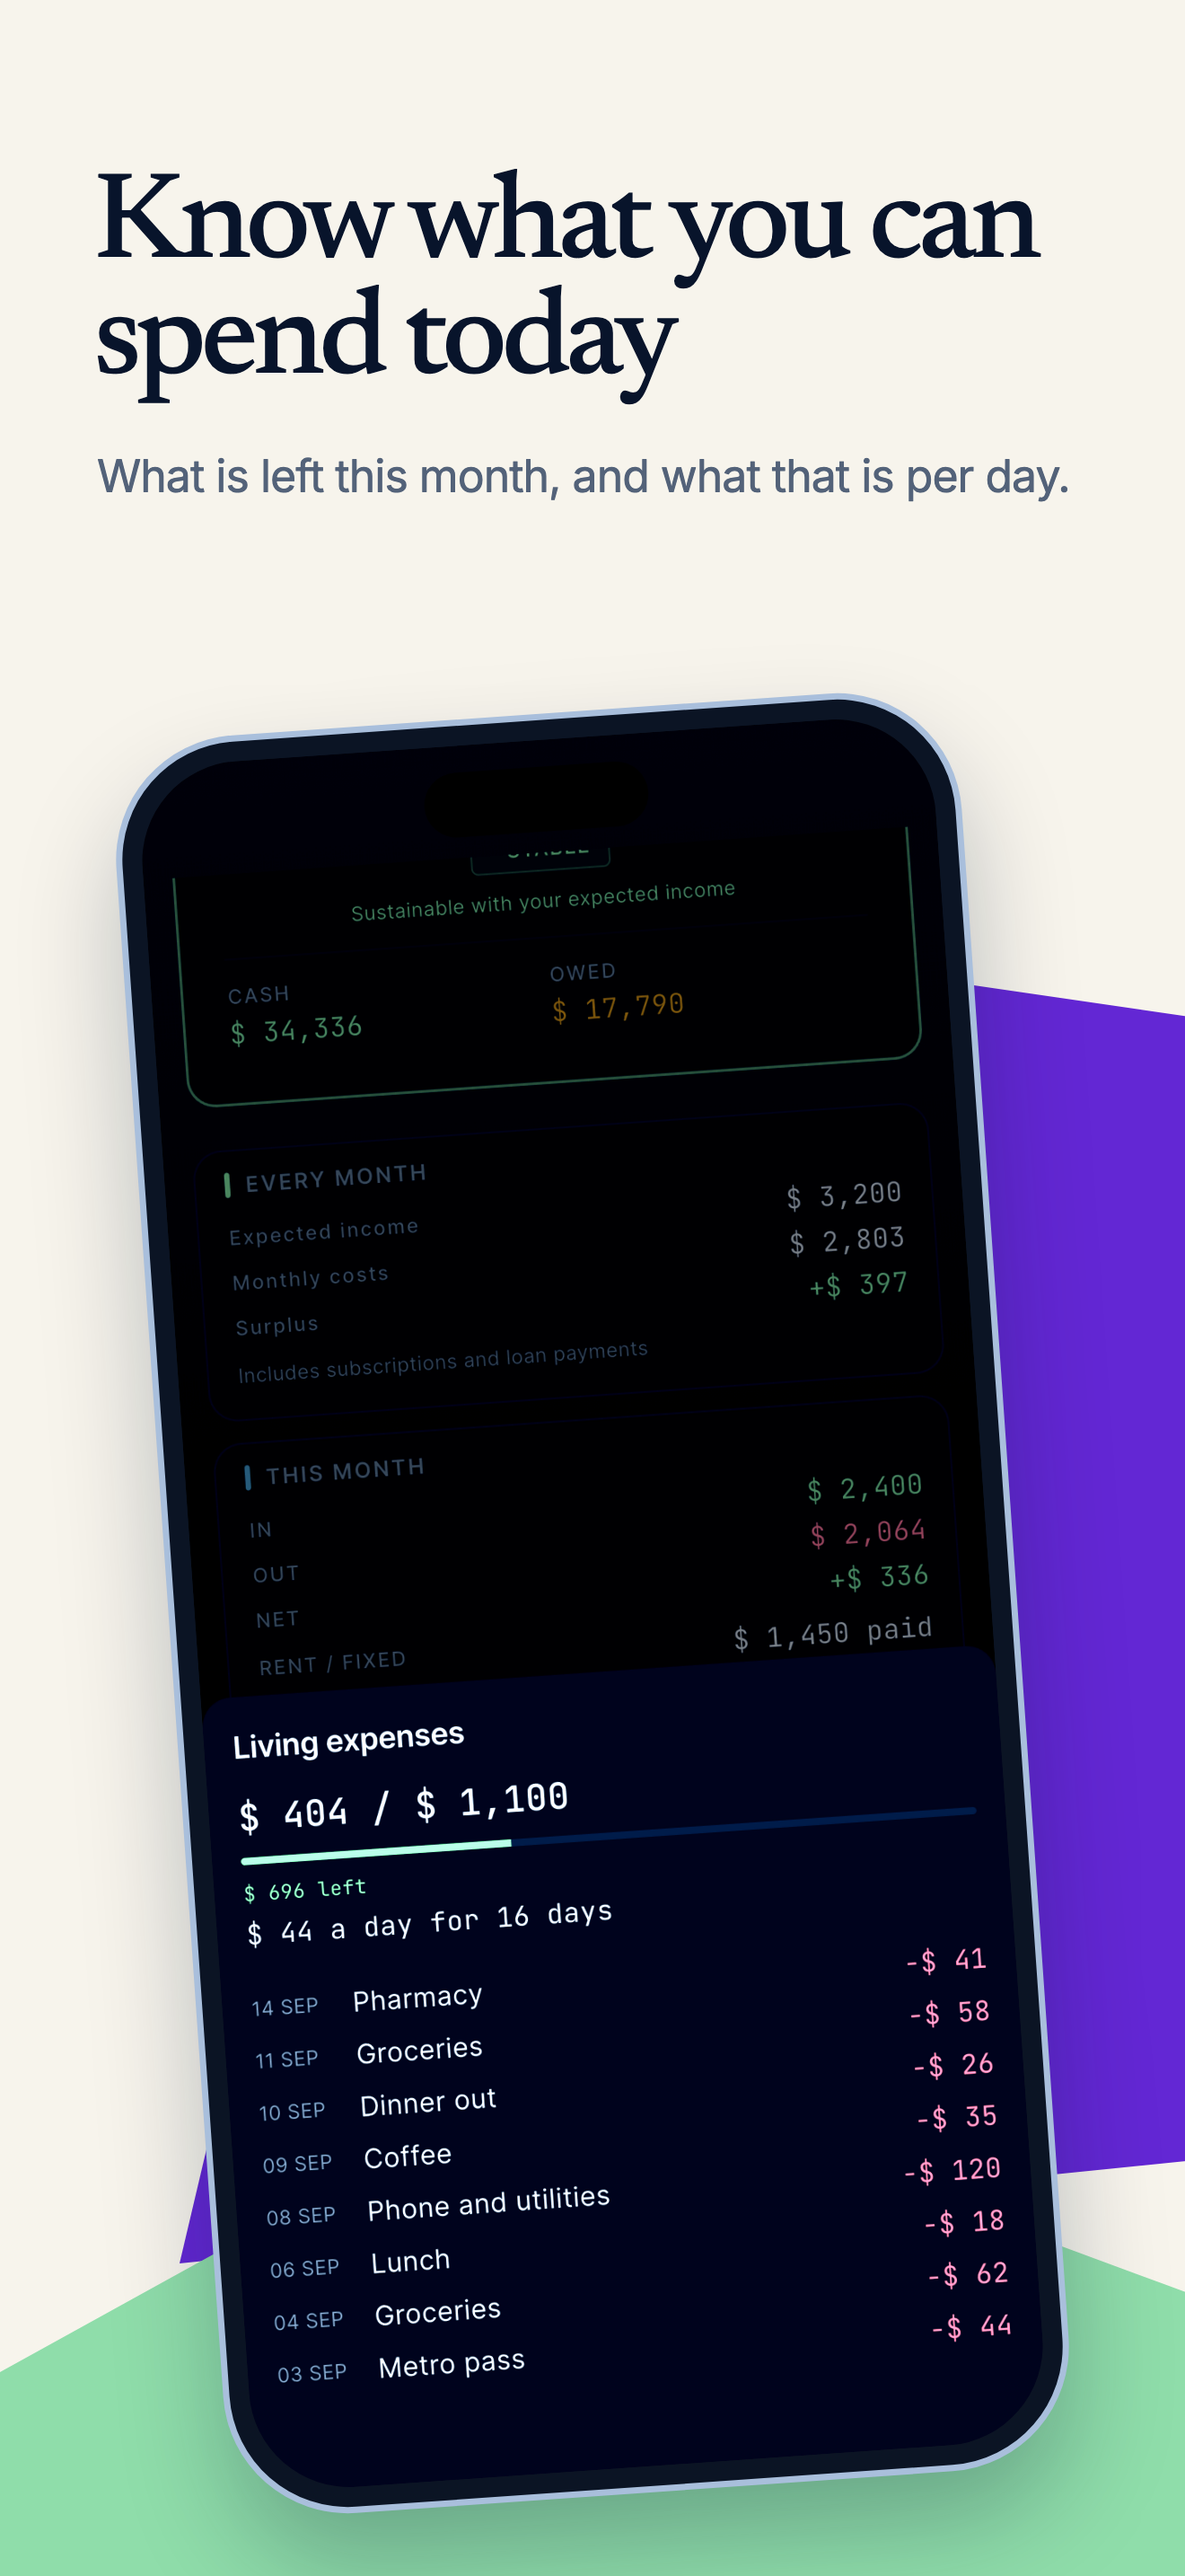
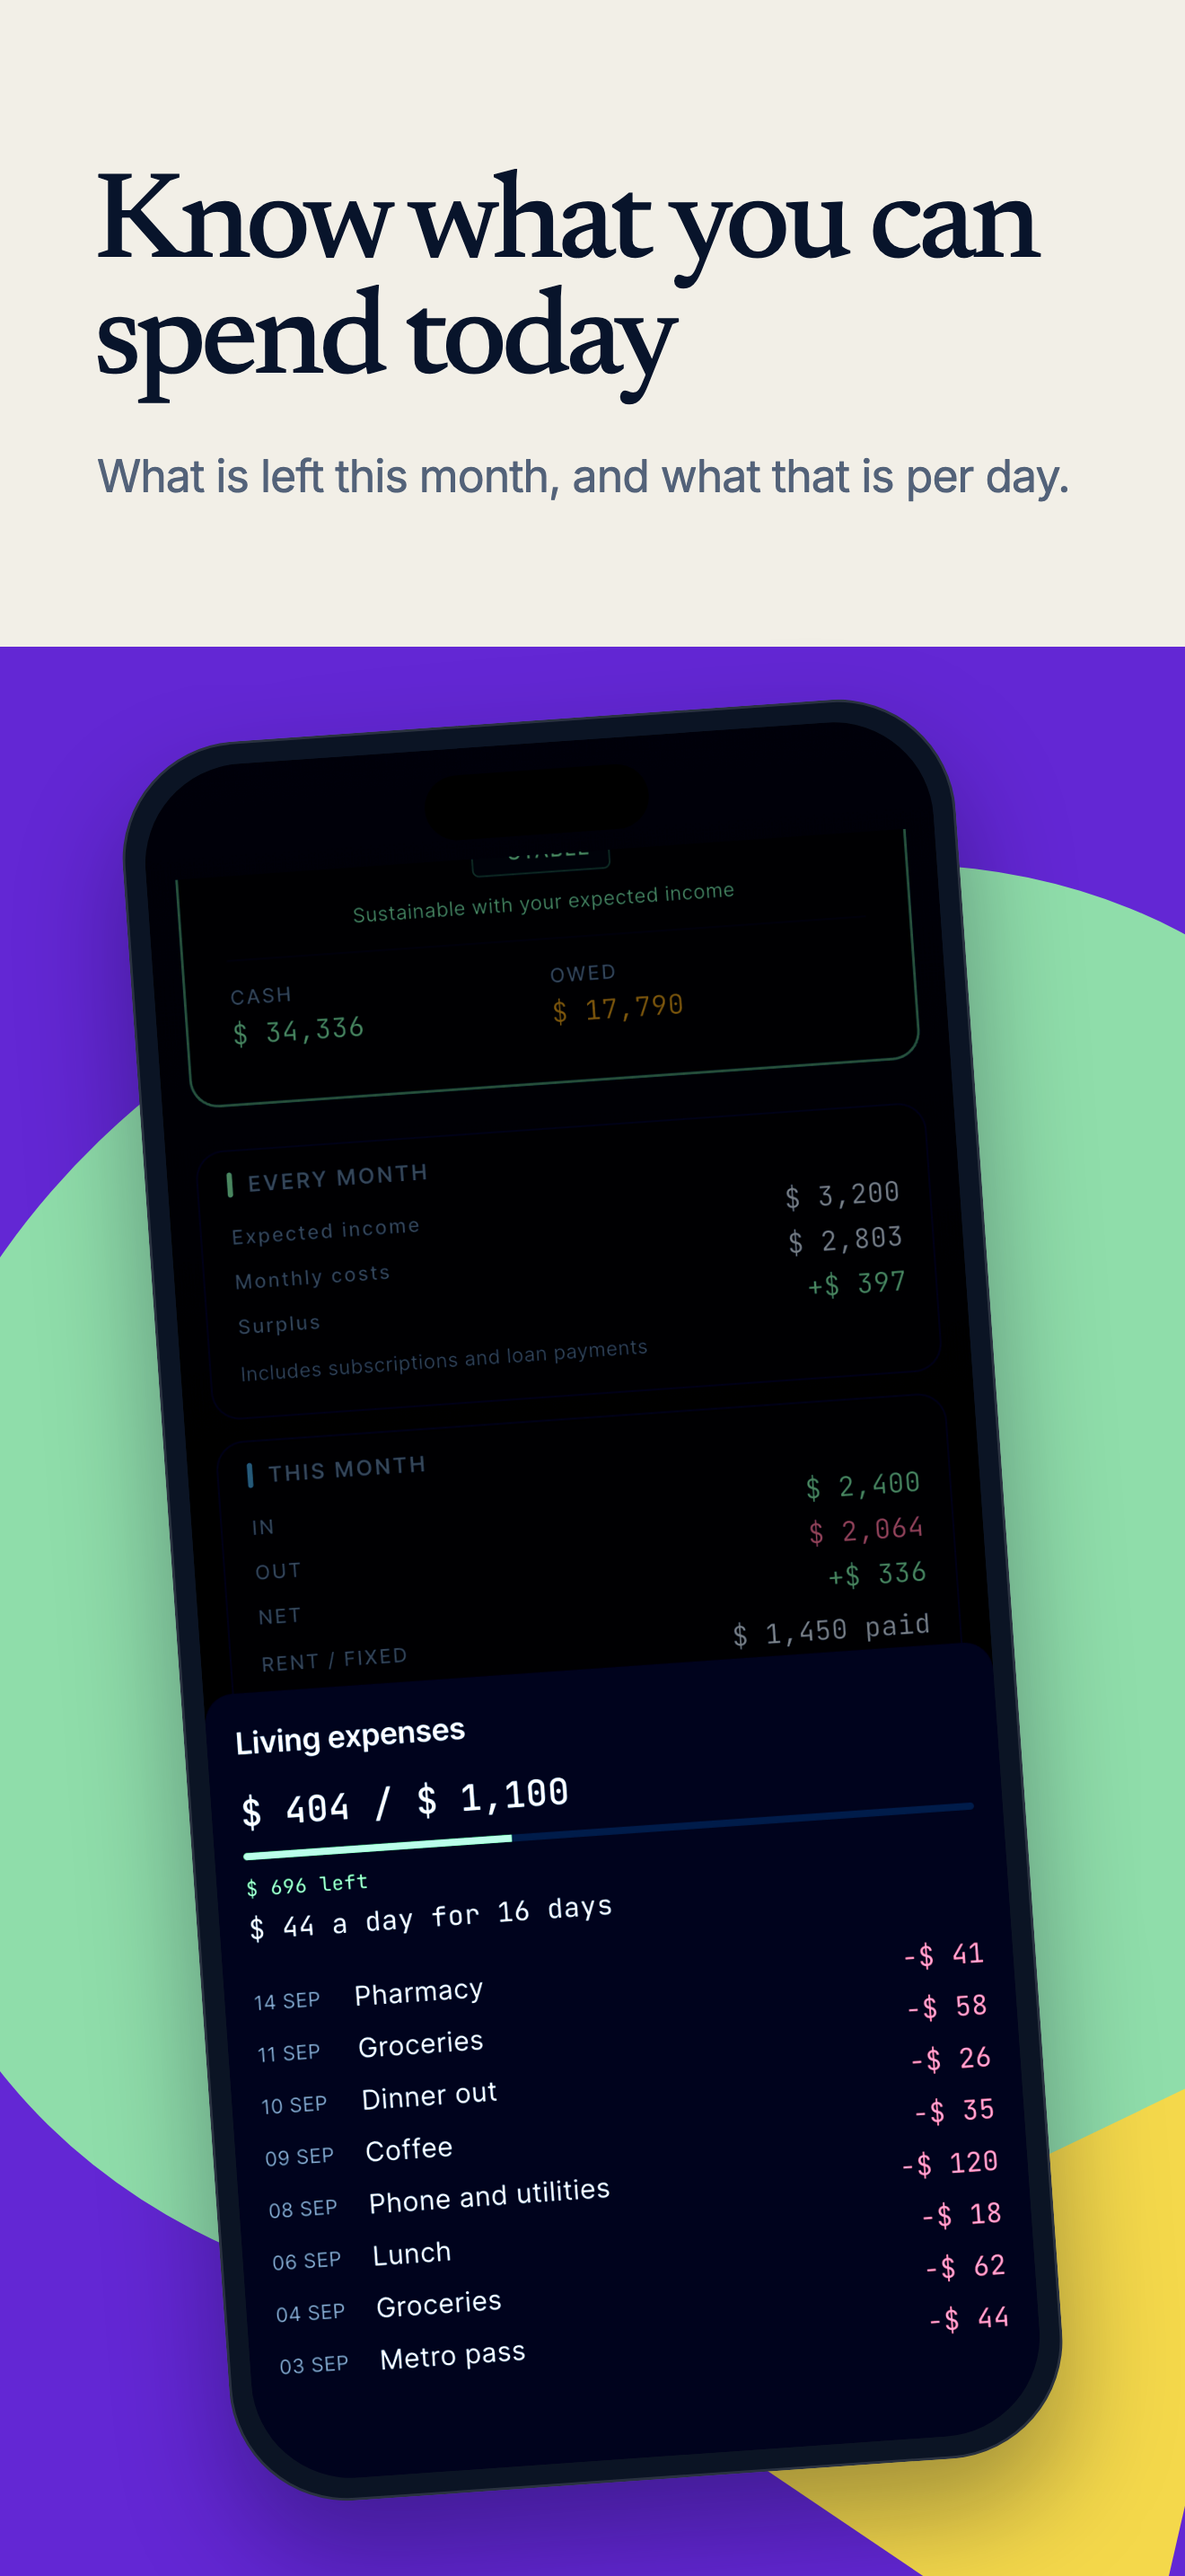
feat(store): screenshots in the landing hero's look, so the site and the store match
The slides used the older Shipaton shapes (cream, violet slab, mint ridge,
coral star). The live landing page has moved on: paper ground, violet field
with a mint blob and a yellow shard, the phone at -4deg and a runway card.
The template now takes those values from site/assets/landing.css.

diff --git a/assets/store/screenshot.html b/assets/store/screenshot.html
@@ -19,6 +19,10 @@
         font-weight: 500;
       }
       @font-face {
+        font-family: "JetBrains Mono";
+        src: url("../../site/assets/fonts/jetbrains-mono.woff2") format("woff2");
+      }
+      @font-face {
         font-family: "Inter";
         src: url("../../site/assets/fonts/inter.woff2") format("woff2");
       }
@@ -34,7 +38,7 @@
       body {
         position: relative;
         overflow: hidden;
-        background: #f7f4ec;
+        background: #f2efe7;
         color: #08142b;
       }
       h1 {
@@ -61,49 +65,66 @@
         line-height: 1.2;
         letter-spacing: -0.02em;
       }
-      .slab,
-      .ridge,
-      .star {
+      /* The landing hero's right column, below the headline: violet field,
+         mint blob and yellow shard, with the same values as site/assets/landing.css. */
+      .field {
         position: absolute;
-      }
-      .slab {
-        right: -60px;
-        top: 1020px;
-        width: 1180px;
-        height: 1500px;
+        left: 0;
+        top: 720px;
+        width: 1320px;
+        height: 2148px;
+        overflow: hidden;
         background: #6327d4;
-        clip-path: polygon(30% 0, 100% 8%, 100% 92%, 0 100%);
+        isolation: isolate;
       }
-      .ridge {
-        left: -60px;
-        bottom: -40px;
-        width: 1500px;
-        height: 520px;
+      .blob {
+        position: absolute;
+        z-index: -2;
+        inset: 13% -24% auto -11%;
+        height: 72%;
+        border-radius: 52% 35% 47% 41%;
         background: #8fddaa;
-        clip-path: polygon(0 55%, 22% 20%, 46% 48%, 70% 8%, 100% 40%, 100% 100%, 0 100%);
+        transform: rotate(-8deg);
       }
-      .star {
+      .shard {
+        position: absolute;
+        z-index: -1;
+        right: -120px;
+        bottom: -160px;
+        width: 760px;
+        height: 760px;
+        background: #f4d84b;
+        clip-path: polygon(0 48%, 100% 0, 77% 100%);
+      }
+      .card {
+        position: absolute;
         right: 70px;
-        top: 600px;
-        width: 210px;
-        height: 210px;
-        background: #f28a6e;
-        clip-path: polygon(
-          50% 0,
-          60% 32%,
-          92% 18%,
-          72% 46%,
-          100% 62%,
-          66% 66%,
-          70% 100%,
-          50% 74%,
-          26% 98%,
-          32% 64%,
-          0 56%,
-          30% 44%,
-          10% 14%,
-          42% 30%
-        );
+        top: 1640px;
+        display: grid;
+        gap: 14px;
+        width: 600px;
+        padding: 44px 48px;
+        border-radius: 36px;
+        color: #08142b;
+        background: #f8f7f2;
+        box-shadow: 0 60px 140px rgba(3, 7, 22, 0.34);
+        transform: rotate(5deg);
+      }
+      .card[hidden] {
+        display: none;
+      }
+      .card span {
+        color: #657087;
+        font: 30px "JetBrains Mono", monospace;
+        letter-spacing: 0.12em;
+      }
+      .card strong {
+        font: 800 150px/1 "JetBrains Mono", monospace;
+        letter-spacing: -0.08em;
+      }
+      .card small {
+        color: #657087;
+        font: 32px "Inter", system-ui, sans-serif;
       }
       .phone {
         position: absolute;
@@ -114,9 +135,8 @@
         padding: 22px;
         border-radius: 132px;
         background: #0b1424;
-        box-shadow:
-          0 0 0 7px #a9bfdc,
-          0 60px 120px rgba(8, 20, 43, 0.28);
+        border: 3px solid rgba(255, 255, 255, 0.13);
+        box-shadow: 0 60px 120px rgba(3, 7, 22, 0.34);
       }
       /* The app is dark by design; a store thumbnail needs it lifted to read. */
       .phone img {
@@ -138,12 +158,11 @@
     </style>
   </head>
   <body>
-    <div class="slab"></div>
-    <div class="ridge"></div>
-    <div class="star" hidden></div>
+    <div class="field"><div class="blob"></div><div class="shard"></div></div>
     <h1></h1>
     <p></p>
     <div class="phone"><img alt="" /><span class="island"></span></div>
+    <div class="card" hidden><span>YOUR RUNWAY</span><strong>12 mo</strong><small>Running out September 2027</small></div>
     <script>
       const slides = {
         "01-runway": ["How long will your money last?", "One number, counted from today. No account, no bank login.", true],
@@ -152,10 +171,10 @@
         "04-plan": ["Try a change before you make it", "See how many months a lower cost buys.", false],
       };
       const name = location.hash.slice(1) || "01-runway";
-      const [title, line, star] = slides[name];
+      const [title, line, card] = slides[name];
       document.querySelector("h1").textContent = title;
       document.querySelector("p").textContent = line;
-      document.querySelector(".star").hidden = !star;
+      document.querySelector(".card").hidden = !card;
       document.querySelector(".phone img").src = `../../site/assets/device/${name}.png`;
     </script>
   </body>
